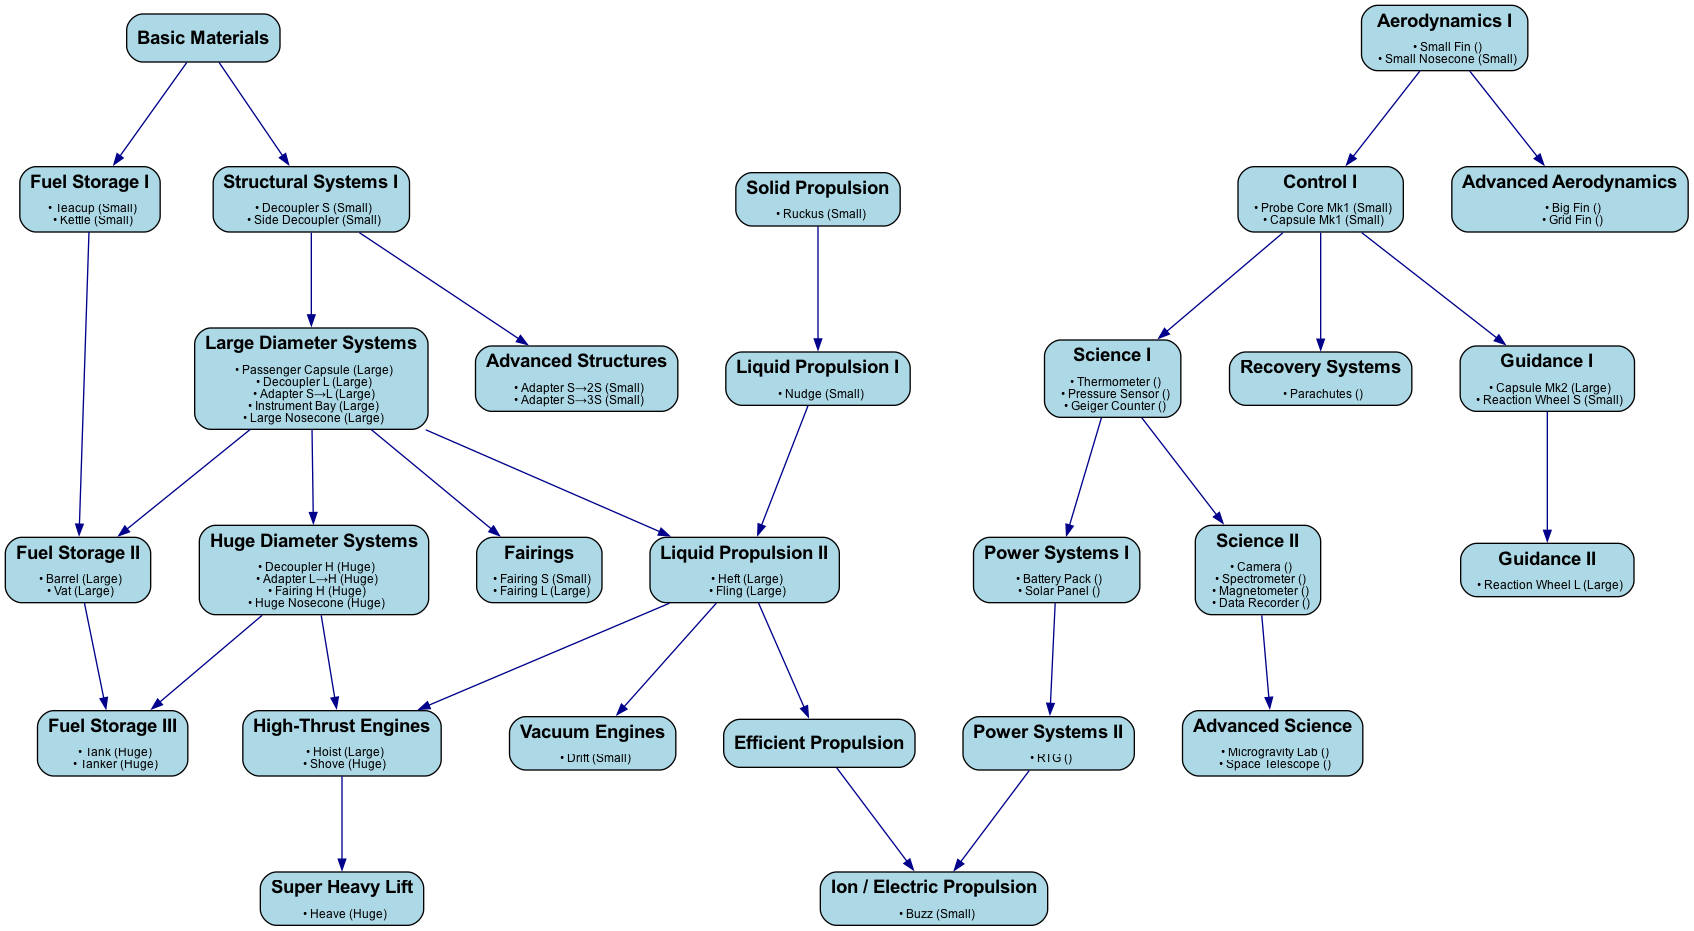
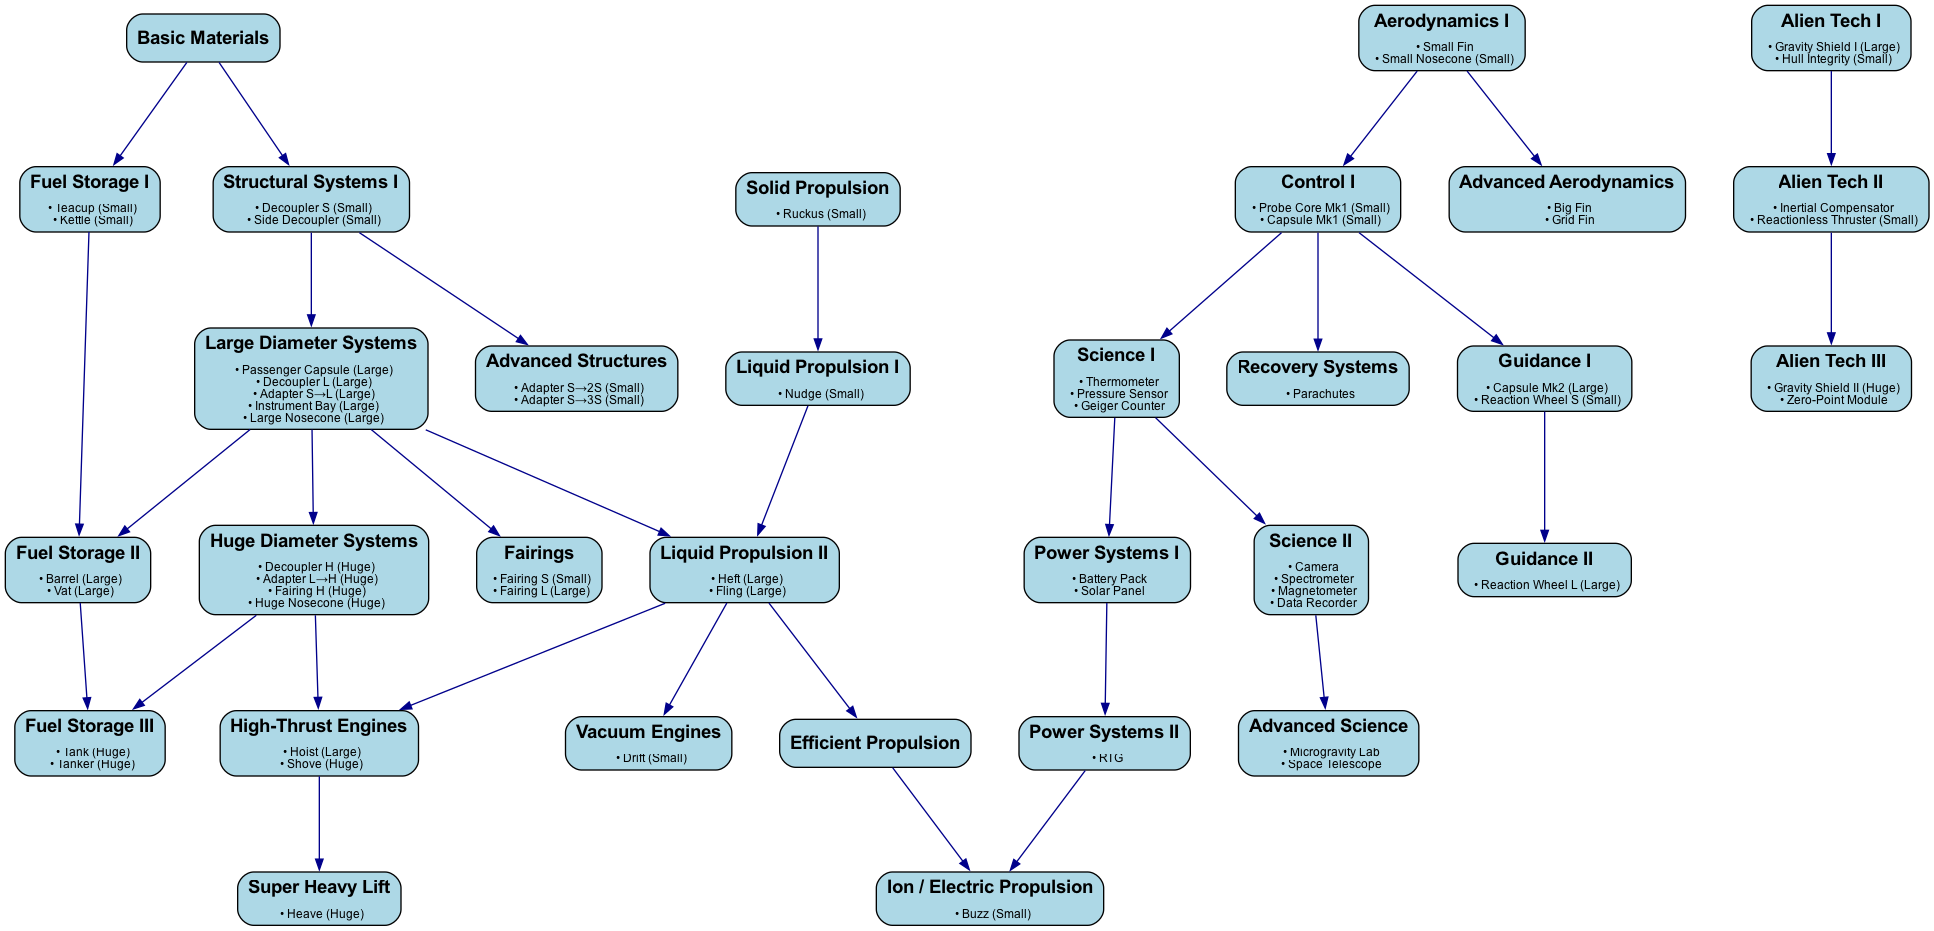
Refine tech tree visualizer; re-run with alien techs included.

diff --git a/prototypes/tech_tree_visualizer.py b/prototypes/tech_tree_visualizer.py
@@ -126,7 +126,9 @@ def create_tech_tree_graph(tech_nodes, unassigned_parts):
             for part in node_data['parts']:
                 part_name = html.escape(part["name"])
                 part_size = html.escape(part["size"]) if part["size"] else ""
-                label += f'<BR/>  • {part_name} ({part_size})'
+                label += f'<BR/>  • {part_name}'
+                if part_size:
+                    label += f" ({part_size})"
             label += '</FONT>'
 
         label = f'<{label}>'
@@ -156,8 +158,10 @@ def create_tech_tree_graph(tech_nodes, unassigned_parts):
             for category in sorted(by_category.keys()):
                 label_parts.append(f'<B>{html.escape(category)}:</B>')
                 for part in by_category[category]:
-                    size_str = f" ({html.escape(part['size'])})" if part['size'] else ""
-                    label_parts.append(f'  • {html.escape(part["name"])}{size_str}')
+                    label = f'  • {html.escape(part["name"])}{size_str}'
+                    if part['size'].trim():
+                        label += f" ({html.escape(part['size'])})"
+                    label_parts.append(label)
 
             label = f'<FONT POINT-SIZE="10">{"<BR/>".join(label_parts)}</FONT>'
             label = f'<{label}>'
